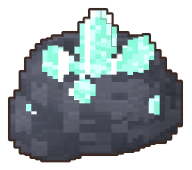
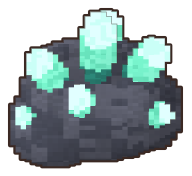
Lumen crystal as soft glowing buds, and the ores' ambient life
- lumen crystal: rounded mint buds with deep-teal hearts swelling out of split slate (the game's
  lumen mint, like the Lumenbud; nothing like a cut gem)
- in the world: lumen breathes light and brightens as your Evochi comes near, motes drifting up;
  obsidian has a violet sheen sliding across it now and then; copper and iron catch small glints;
  reduced motion keeps only a steady glow
- a lumen crystal past the mine's mouth on the Old Trail (a taste of the deep floors)

Claude-Session: https://claude.ai/code/session_01HANmFDddYbzo6K9KzGZmoK

diff --git a/flutter/lib/features/village/mining.dart b/flutter/lib/features/village/mining.dart
@@ -370,3 +370,79 @@ void stepBits(List<MineBit> bits, double now, double dt, double Function(double 
   }
   bits.removeWhere((b) => b.kind != 'nugget' && now - b.born > b.life);
 }
+
+/// An ore node drawn with its ambient life: lumen crystal breathes mint light, brighter as your Evochi
+/// comes close (crystals answering footsteps), with a few motes drifting up from it; obsidian has a
+/// violet sheen sliding across its glass now and then; copper and iron catch the light in small glints.
+/// [near] 0-1: how close your Evochi is. [reduced]: the system's reduced motion (a steady glow only).
+void paintOre(Canvas canvas, ui.Image img, Rect dst, String kind, int state, double t, double near, bool reduced, double seed) {
+  final src = Rect.fromLTWH(0, 0, img.width.toDouble(), img.height.toDouble());
+  final paint = Paint()..filterQuality = FilterQuality.medium;
+  final alive = state < 3;
+  if (kind == 'obsidian' && alive && !reduced) {
+    final u = ((t + seed * 3) % 5.0) / 1.3;
+    if (u < 1) {
+      // the sprite, then a slanted band of light over its pixels only
+      canvas.saveLayer(dst.inflate(2), Paint());
+      canvas.drawImageRect(img, src, dst, paint);
+      final x = dst.left + (-0.25 + 1.5 * u) * dst.width, w = dst.width * 0.13;
+      final band = Path()
+        ..moveTo(x, dst.top)
+        ..lineTo(x + w, dst.top)
+        ..lineTo(x + w - dst.height * 0.35, dst.bottom)
+        ..lineTo(x - dst.height * 0.35, dst.bottom)
+        ..close();
+      canvas.drawPath(band, Paint()
+        ..blendMode = BlendMode.srcATop
+        ..color = const Color(0x70E9DCFF));
+      canvas.restore();
+      return;
+    }
+  }
+  canvas.drawImageRect(img, src, dst, paint);
+  if (!alive) return;
+  final crown = Offset(dst.center.dx, dst.top + dst.height * 0.32);
+  if (kind == 'lumen') {
+    final pulse = reduced ? 0.0 : math.sin(t * 1.7 + seed);
+    final a = (0.20 + 0.08 * pulse + 0.28 * near).clamp(0.0, 0.6);
+    final r = dst.width * (0.62 + 0.04 * pulse + 0.12 * near);
+    canvas.drawCircle(
+        crown,
+        r,
+        Paint()
+          ..blendMode = BlendMode.plus
+          ..shader = ui.Gradient.radial(crown, r, [Color.fromRGBO(111, 227, 192, a), const Color.fromRGBO(111, 227, 192, 0)]));
+    if (reduced) return;
+    for (var k = 0; k < 4; k++) {
+      final p = (t * 0.28 + k * 0.25 + seed) % 1.0;
+      final at = crown + Offset(math.sin(k * 2.3 + t * 0.9) * dst.width * 0.22, -p * dst.height * 0.95);
+      final ma = math.sin(p * math.pi) * (0.55 + 0.45 * near);
+      canvas.drawCircle(at, 2.4, Paint()..color = Color.fromRGBO(201, 248, 232, ma));
+      canvas.drawCircle(at, 6, Paint()
+        ..color = Color.fromRGBO(111, 227, 192, ma * 0.35)
+        ..maskFilter = const MaskFilter.blur(BlurStyle.normal, 3));
+    }
+    return;
+  }
+  if (reduced || (kind != 'copper' && kind != 'iron')) return;
+  // a glint now and then where the metal catches the sun
+  const spots = {
+    'copper': [Offset(0.30, 0.30), Offset(0.62, 0.22), Offset(0.74, 0.55)],
+    'iron': [Offset(0.28, 0.36), Offset(0.50, 0.24), Offset(0.66, 0.48)],
+  };
+  var i = 0;
+  for (final sp in spots[kind]!) {
+    final a = math.pow(math.max(0.0, math.sin(t * 1.1 + i * 2.1 + seed * 5)), 14).toDouble();
+    i++;
+    if (a < 0.02) continue;
+    final c = Offset(dst.left + sp.dx * dst.width, dst.top + sp.dy * dst.height);
+    final s = 5.0 + 3.0 * a;
+    final pen = Paint()
+      ..color = Color.fromRGBO(255, 250, 235, a)
+      ..strokeWidth = 1.6
+      ..strokeCap = StrokeCap.round;
+    canvas.drawLine(c - Offset(s, 0), c + Offset(s, 0), pen);
+    canvas.drawLine(c - Offset(0, s), c + Offset(0, s), pen);
+    canvas.drawCircle(c, 1.8, Paint()..color = Color.fromRGBO(255, 255, 255, a));
+  }
+}

diff --git a/flutter/lib/features/village/village_walk.dart b/flutter/lib/features/village/village_walk.dart
@@ -413,6 +413,7 @@ class VillageWalkScreenState extends State<VillageWalkScreen> with SingleTickerP
   final _satchelKey = GlobalKey();
   final _mapKey = GlobalKey();
   int _stage = 3;
+  bool _reduced = false; // the system asks for less motion
   double _power = 1; // hits a strike is worth (an Obsidian Evochi's edge)
   static const _gearTier = 1; // no mining gear yet (Flint's shop): copper only
   static const _regrow = 40.0; // seconds until a burst node is whole again (the preview's pace)
@@ -918,6 +919,7 @@ class VillageWalkScreenState extends State<VillageWalkScreen> with SingleTickerP
   // ------------------------------------------------------------------------------------ the screen
   @override
   Widget build(BuildContext context) {
+    _reduced = MediaQuery.maybeDisableAnimationsOf(context) ?? false;
     final c = context.watch<GameController>();
     final marks = q.npcMarkers(c.state);
     return Scaffold(
@@ -1141,7 +1143,8 @@ class _WalkPainter extends CustomPainter {
             Paint()
               ..color = const Color(0x3316241F)
               ..maskFilter = const MaskFilter.blur(BlurStyle.normal, 4));
-        canvas.drawImageRect(sp.img, Rect.fromLTWH(0, 0, sp.img.width.toDouble(), sp.img.height.toDouble()), dst, Paint()..filterQuality = FilterQuality.medium);
+        final d = math.sqrt(math.pow(s.me.x - o.x, 2) + math.pow(s.me.z - o.z, 2));
+        paintOre(canvas, sp.img, dst, o.kind, o.state, s._t, (1 - (d - 2.6) / 3.5).clamp(0.0, 1.0), s._reduced, o.x * 0.37 + o.z * 0.11);
         cover(dst, o.z);
       }));
     }

diff --git a/flutter/tool/shorts/trail_walk_test.dart b/flutter/tool/shorts/trail_walk_test.dart
@@ -173,7 +173,7 @@ void main() {
       await hold(hit < 2 ? 0.5 : 2.2);
     }
     // the iron by the mine: too hard without gear
-    s.mineOre(s.ores.last);
+    s.mineOre(s.ores.firstWhere((o) => o.kind == 'iron'));
     for (var i = 0; i < 12 * _fps && s.me.moving; i++) {
       await grab();
     }
@@ -181,6 +181,10 @@ void main() {
     s.pounceDown();
     s.pounceUp();
     await hold(2.4);
+    // past the mine's mouth, the lumen crystal brightens as you come near
+    final lumen = s.ores.firstWhere((o) => o.kind == 'lumen');
+    await walk(lumen.x - 1.0, lumen.z + 3.2);
+    await hold(3.0);
     VillageWalkScreenState.onExit = null;
     await tester.runAsync(() async {
       raw!.closeSync();

diff --git a/tools/art/mining_art.py b/tools/art/mining_art.py
@@ -82,6 +82,19 @@ def _prism(M, base, d, r, length):
     return (t > -0.4) & (t < length) & (u + v < r * taper + 0.1)
 
 
+def _bud(M, base, d, r, length):
+    """A lumen bud: a soft, rounded swelling from [base] along [d], fattest past its middle and round at the
+    tip (no facets, nothing like a cut gem). Returns the shape and how far along it each voxel is (0-1)."""
+    X, Y, Z = M.X, M.Y, M.Z
+    d = np.asarray(d, float) / np.linalg.norm(d)
+    px, py, pz = X - base[0], Y - base[1], Z - base[2]
+    t = px * d[0] + py * d[1] + pz * d[2]
+    perp = np.sqrt(np.maximum(px * px + py * py + pz * pz - t * t, 0))
+    u = np.clip(t / length, 0, 1)
+    prof = r * np.sqrt(np.clip(1 - ((u - 0.55) / 0.55) ** 2, 0, 1)) * (0.75 + 0.25 * u)
+    return (t > -0.3) & (t < length) & (perp < prof + 0.08), u
+
+
 def _flake(M, c, n, r, thick=0.32, spin=0.0):
     """A flake of volcanic glass: a thin angular shard (a diamond outline in its own plane, longer one
     way), thickest in the middle and sharp at its rim."""
@@ -108,7 +121,9 @@ ROCK = {   # each ore's rock: none of them a grey stone with specks
 COPPER = ['#D9844A', '#C46B34', '#E8945A']
 IRON_SILVER = ['#B9C0C8', '#A3AAB3', '#CDD3DA']
 IRON_RUST = ['#9A4B3A', '#8A4232']
-LUMEN = ['#9FF0DA', '#7FE3C8', '#C8FFEF']
+LUMEN = ['#6FE3C0', '#62D6B3', '#7FEBCB']                 # the game's lumen mint (the Lumenbud, the shards)
+LUMEN_CORE = ['#2E8F82', '#2A8076']
+LUMEN_TIP = ['#C9F8E8', '#B5F2DD']
 GLASS = ['#1E1724', '#251C2C', '#2E2338']
 
 
@@ -157,18 +172,19 @@ def ore_node(kind, stage, seed=7):
             M.set(rib & ~np.roll(rib, -1, 1) & (rng.random(M.m.shape) < 0.6), '#EEF2F6')   # catching the light
             M.set(rib & (np.abs(dd - c) > w - 0.2), '#7E858E')                             # its darker edges
         P.fill(rock & (np.abs(dd + 0.5) < 0.3) & ~np.roll(rock, -1, 2), IRON_RUST, cell=0.67)   # rust weeping between
-    elif kind == 'lumen':
-        crown = ((0.0, 4.6, 0.2, (0.0, 1.0, 0.15), 1.1, 5.2), (-1.4, 4.2, 0.9, (-0.45, 1.0, 0.3), 0.9, 4.0), (1.5, 4.3, 0.6, (0.5, 1.0, 0.2), 0.95, 4.3),
-                 (0.3, 4.2, -1.3, (0.1, 1.0, -0.45), 0.8, 3.4), (-0.6, 4.0, 2.0, (-0.1, 0.8, 0.7), 0.75, 2.9), (2.6, 3.2, 2.0, (0.7, 0.6, 0.6), 0.6, 2.2),
-                 (-3.0, 2.6, 1.8, (-0.8, 0.5, 0.5), 0.55, 1.9))
-        hole = ((X ** 2) / 2.6 ** 2 + ((Y - 5.4) ** 2) / 1.6 ** 2 + (Z ** 2) / 2.2 ** 2 < 1.0)  # the top cracked open round the cluster
-        M.m[hole & rock & (Y > 4.6)] = 0
-        for i, (x, y, z, d, r, ln) in enumerate(crown):
+    elif kind == 'lumen':   # soft glowing buds swelling out of a crack in the top, like Lumenbuds in stone
+        buds = ((0.0, 4.4, 0.3, (0.05, 1.0, 0.2), 1.35, 4.2), (-1.7, 4.0, 0.9, (-0.6, 1.0, 0.35), 1.1, 3.3), (1.8, 4.1, 0.5, (0.6, 1.0, 0.25), 1.15, 3.5),
+                (0.4, 4.0, -1.5, (0.15, 1.0, -0.5), 0.95, 2.8), (-0.7, 3.8, 2.1, (-0.15, 0.8, 0.8), 0.9, 2.5), (2.9, 2.9, 2.0, (0.8, 0.6, 0.6), 0.7, 1.9),
+                (-3.1, 2.5, 1.7, (-0.85, 0.5, 0.5), 0.65, 1.7))
+        hole = ((X ** 2) / 2.8 ** 2 + ((Y - 5.4) ** 2) / 1.6 ** 2 + (Z ** 2) / 2.4 ** 2 < 1.0)  # the top split open round the cluster
+        M.m[hole & rock & (Y > 4.5)] = 0
+        for i, (x, y, z, d, r, ln) in enumerate(buds):
             if not keep(i):
                 continue
-            cr = _prism(M, (x, y, z), d, r, ln * (0.55 if stage == 2 and i == 0 else 1.0))
-            P.fill(cr & (M.m == 0), LUMEN, glow=0.9, cell=0.34)
-            M.set(cr & (np.abs((X - x) + (Z - z) * 0.6) < 0.25), '#E8FFF8', glow=1.0)   # a bright facet edge
+            body, t = _bud(M, (x, y, z), d, r * 0.9, ln * 1.3 * (0.6 if stage == 2 and i == 0 else 1.0))
+            P.fill(body & (t < 0.38), LUMEN_CORE, glow=0.35, cell=0.34)        # a deep teal heart low down
+            P.fill(body & (t >= 0.38) & (t < 0.78), LUMEN, glow=0.75, cell=0.34)
+            P.fill(body & (t >= 0.78), LUMEN_TIP, glow=1.0, cell=0.34)         # brightest at the tip
     else:   # obsidian: a low basalt bed under a heap of big glass shards leaning every way
         M.m[rock & (Y > 2.4 + 0.4 * np.sin(X * 0.9))] = 0
         flakes = ((-1.8, 3.8, 1.2, (-0.6, 0.35, 1.0), 3.0, 0.3), (1.9, 4.4, 0.6, (0.8, 0.4, 0.9), 2.9, 1.2), (0.0, 5.0, -1.4, (0.1, 0.45, 1.0), 3.2, 0.0),
@@ -210,8 +226,10 @@ def nugget(kind, seed=3):
         P.fill(rib, IRON_SILVER, cell=0.25)
         M.set(rib & ~np.roll(rib, -1, 1), '#EEF2F6')
     elif kind == 'lumen':
-        b = _prism(M, (0, 0, 0), (0.15, 1.0, 0.1), 0.75, 3.0)
-        P.fill(b, LUMEN, glow=0.9, cell=0.25)
+        b, t = _bud(M, (0, 0, 0), (0.15, 1.0, 0.1), 1.0, 2.8)
+        P.fill(b & (t < 0.38), LUMEN_CORE, glow=0.35, cell=0.25)
+        P.fill(b & (t >= 0.38) & (t < 0.78), LUMEN, glow=0.75, cell=0.25)
+        P.fill(b & (t >= 0.78), LUMEN_TIP, glow=1.0, cell=0.25)
     else:
         b, q = _flake(M, (0, 1.2, 0), (0.35, 0.55, 0.9), 1.4, 0.45, 0.9)
         P.fill(b, GLASS, cell=0.25)

diff --git a/tools/art/village_walk_pack.py b/tools/art/village_walk_pack.py
@@ -79,9 +79,11 @@ def _trail():
                'mine': (mx, mz + 2.0, 2.0, None, None),
                'thicket': (VT.GATE_X + 2.4, on_path(VT.GATE_X + 2.4), 2.4, None, None)},
         fx='fx_trail.py', tiles='trail/walk', art_npcs={'flint': 'trail/flint.json'},
-        # ore to Pounce: a copper vein at the edge of the Crossing's yard (Flint's first lesson), and a lone
-        # iron node by the mine, too hard without gear (MINES_PLAN.md: the too-hard answer)
-        ores=[('copper', 92.0, -9.5), ('copper', 89.4, -12.2), ('iron', 113.5, -17.5)])
+        # ore to Pounce: a copper vein at the edge of the Crossing's yard (Flint's first lesson), a lone
+        # iron node by the mine, too hard without gear (MINES_PLAN.md: the too-hard answer), and a lumen
+        # crystal past the mine's mouth, glowing brighter as you come near (the lore's crystals that answer
+        # footsteps), a taste of the deep floors
+        ores=[('copper', 92.0, -9.5), ('copper', 89.4, -12.2), ('iron', 113.5, -17.5), ('lumen', 122.6, -19.2)])
 
 
 MAPS = {'village': _village, 'trail': _trail}
